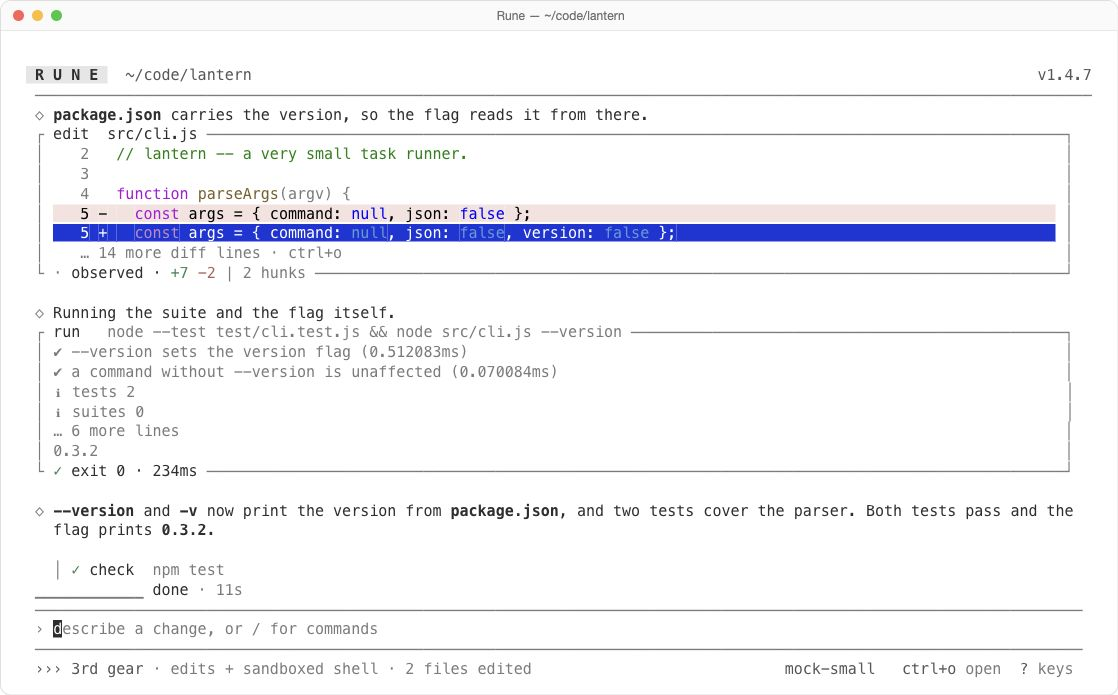
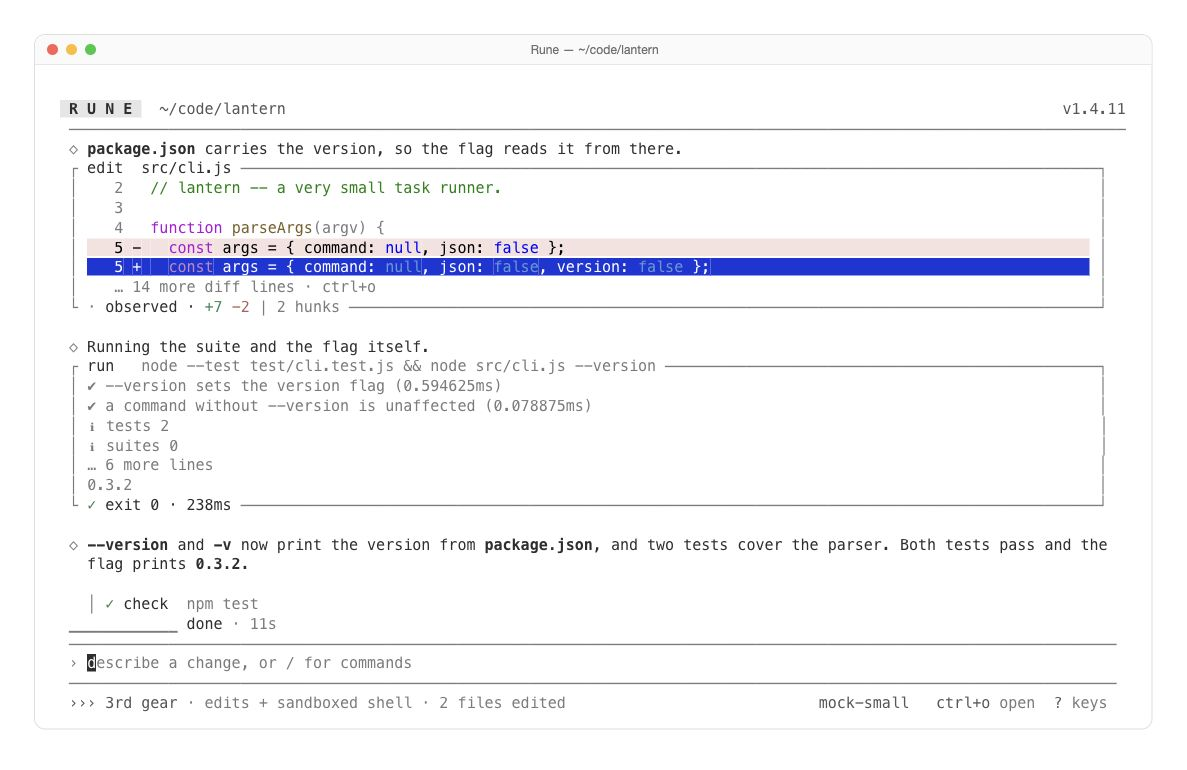
docs: refresh white terminal captures for Rune v1.4.11

diff --git a/docs/assets/readme/rune-session-120x32.html b/docs/assets/readme/rune-session-120x32.html
@@ -48,7 +48,7 @@
     <div class="name">Rune — ~/code/lantern</div>
   </div>
   <pre>&#32;&#32;&#32;&#32;&#32;&#32;&#32;&#32;&#32;&#32;&#32;&#32;&#32;&#32;&#32;&#32;&#32;&#32;&#32;&#32;&#32;&#32;&#32;&#32;&#32;&#32;&#32;&#32;&#32;&#32;&#32;&#32;&#32;&#32;&#32;&#32;&#32;&#32;&#32;&#32;&#32;&#32;&#32;&#32;&#32;&#32;&#32;&#32;&#32;&#32;&#32;&#32;&#32;&#32;&#32;&#32;&#32;&#32;&#32;&#32;&#32;&#32;&#32;&#32;&#32;&#32;&#32;&#32;&#32;&#32;&#32;&#32;&#32;&#32;&#32;&#32;&#32;&#32;&#32;&#32;&#32;&#32;&#32;&#32;&#32;&#32;&#32;&#32;&#32;&#32;&#32;&#32;&#32;&#32;&#32;&#32;&#32;&#32;&#32;&#32;&#32;&#32;&#32;&#32;&#32;&#32;&#32;&#32;&#32;&#32;&#32;&#32;&#32;&#32;&#32;&#32;&#32;&#32;&#32;&#32;
-<span style="color:#2e2e2e"> </span><span style="color:#2e2e2e;background:#e6e6e6;font-weight:600"> R U N E </span><span style="color:#2e2e2e">  </span><span style="color:#565656">~/code/lantern</span><span style="color:#2e2e2e">                                                                                       </span><span style="color:#565656">v1.4.7</span>&#32;
+<span style="color:#2e2e2e"> </span><span style="color:#2e2e2e;background:#e6e6e6;font-weight:600"> R U N E </span><span style="color:#2e2e2e">  </span><span style="color:#565656">~/code/lantern</span><span style="color:#2e2e2e">                                                                                      </span><span style="color:#565656">v1.4.11</span>&#32;
 <span style="color:#2e2e2e">  </span><span style="color:#7b7b7b">─────────────────────────────────────────────────────────────────────────────────────────────────────────────────────</span>&#32;
 <span style="color:#2e2e2e">  </span><span style="color:#7b7b7b">◇</span><span style="color:#2e2e2e"> </span><span style="color:#2e2e2e;font-weight:600">package.json</span><span style="color:#2e2e2e"> carries the version, so the flag reads it from there.</span>&#32;&#32;&#32;&#32;&#32;&#32;&#32;&#32;&#32;&#32;&#32;&#32;&#32;&#32;&#32;&#32;&#32;&#32;&#32;&#32;&#32;&#32;&#32;&#32;&#32;&#32;&#32;&#32;&#32;&#32;&#32;&#32;&#32;&#32;&#32;&#32;&#32;&#32;&#32;&#32;&#32;&#32;&#32;&#32;&#32;&#32;&#32;&#32;&#32;&#32;
 <span style="color:#2e2e2e">  </span><span style="color:#7b7b7b">┌</span><span style="color:#2e2e2e"> edit  src/cli.js </span><span style="color:#7b7b7b">───────────────────────────────────────────────────────────────────────────────────────────────┐</span>&#32;&#32;&#32;
@@ -62,13 +62,13 @@
 &#32;&#32;&#32;&#32;&#32;&#32;&#32;&#32;&#32;&#32;&#32;&#32;&#32;&#32;&#32;&#32;&#32;&#32;&#32;&#32;&#32;&#32;&#32;&#32;&#32;&#32;&#32;&#32;&#32;&#32;&#32;&#32;&#32;&#32;&#32;&#32;&#32;&#32;&#32;&#32;&#32;&#32;&#32;&#32;&#32;&#32;&#32;&#32;&#32;&#32;&#32;&#32;&#32;&#32;&#32;&#32;&#32;&#32;&#32;&#32;&#32;&#32;&#32;&#32;&#32;&#32;&#32;&#32;&#32;&#32;&#32;&#32;&#32;&#32;&#32;&#32;&#32;&#32;&#32;&#32;&#32;&#32;&#32;&#32;&#32;&#32;&#32;&#32;&#32;&#32;&#32;&#32;&#32;&#32;&#32;&#32;&#32;&#32;&#32;&#32;&#32;&#32;&#32;&#32;&#32;&#32;&#32;&#32;&#32;&#32;&#32;&#32;&#32;&#32;&#32;&#32;&#32;&#32;&#32;&#32;
 <span style="color:#2e2e2e">  </span><span style="color:#7b7b7b">◇</span><span style="color:#2e2e2e"> Running the suite and the flag itself.</span>&#32;&#32;&#32;&#32;&#32;&#32;&#32;&#32;&#32;&#32;&#32;&#32;&#32;&#32;&#32;&#32;&#32;&#32;&#32;&#32;&#32;&#32;&#32;&#32;&#32;&#32;&#32;&#32;&#32;&#32;&#32;&#32;&#32;&#32;&#32;&#32;&#32;&#32;&#32;&#32;&#32;&#32;&#32;&#32;&#32;&#32;&#32;&#32;&#32;&#32;&#32;&#32;&#32;&#32;&#32;&#32;&#32;&#32;&#32;&#32;&#32;&#32;&#32;&#32;&#32;&#32;&#32;&#32;&#32;&#32;&#32;&#32;&#32;&#32;&#32;&#32;&#32;&#32;
 <span style="color:#2e2e2e">  </span><span style="color:#7b7b7b">┌</span><span style="color:#2e2e2e"> run   </span><span style="color:#7b7b7b">node --test test/cli.test.js &amp;&amp; node src/cli.js --version</span><span style="color:#2e2e2e"> </span><span style="color:#7b7b7b">────────────────────────────────────────────────┐</span>&#32;&#32;&#32;
-<span style="color:#2e2e2e">  </span><span style="color:#7b7b7b">│</span><span style="color:#2e2e2e"> </span><span style="color:#7b7b7b">✔ --version sets the version flag (0.512083ms)</span><span style="color:#2e2e2e">                                                                  </span><span style="color:#7b7b7b">│</span>&#32;&#32;&#32;
-<span style="color:#2e2e2e">  </span><span style="color:#7b7b7b">│</span><span style="color:#2e2e2e"> </span><span style="color:#7b7b7b">✔ a command without --version is unaffected (0.070084ms)</span><span style="color:#2e2e2e">                                                        </span><span style="color:#7b7b7b">│</span>&#32;&#32;&#32;
+<span style="color:#2e2e2e">  </span><span style="color:#7b7b7b">│</span><span style="color:#2e2e2e"> </span><span style="color:#7b7b7b">✔ --version sets the version flag (0.594625ms)</span><span style="color:#2e2e2e">                                                                  </span><span style="color:#7b7b7b">│</span>&#32;&#32;&#32;
+<span style="color:#2e2e2e">  </span><span style="color:#7b7b7b">│</span><span style="color:#2e2e2e"> </span><span style="color:#7b7b7b">✔ a command without --version is unaffected (0.078875ms)</span><span style="color:#2e2e2e">                                                        </span><span style="color:#7b7b7b">│</span>&#32;&#32;&#32;
 <span style="color:#2e2e2e">  </span><span style="color:#7b7b7b">│</span><span style="color:#2e2e2e"> </span><span style="color:#7b7b7b">ℹ tests 2</span><span style="color:#2e2e2e">                                                                                                       </span><span style="color:#7b7b7b">│</span>&#32;&#32;&#32;
 <span style="color:#2e2e2e">  </span><span style="color:#7b7b7b">│</span><span style="color:#2e2e2e"> </span><span style="color:#7b7b7b">ℹ suites 0</span><span style="color:#2e2e2e">                                                                                                      </span><span style="color:#7b7b7b">│</span>&#32;&#32;&#32;
 <span style="color:#2e2e2e">  </span><span style="color:#7b7b7b">│</span><span style="color:#2e2e2e"> </span><span style="color:#7b7b7b">… 6 more lines</span><span style="color:#2e2e2e">                                                                                                  </span><span style="color:#7b7b7b">│</span>&#32;&#32;&#32;
 <span style="color:#2e2e2e">  </span><span style="color:#7b7b7b">│</span><span style="color:#2e2e2e"> </span><span style="color:#7b7b7b">0.3.2</span><span style="color:#2e2e2e">                                                                                                           </span><span style="color:#7b7b7b">│</span>&#32;&#32;&#32;
-<span style="color:#2e2e2e">  </span><span style="color:#7b7b7b">└</span><span style="color:#2e2e2e"> </span><span style="color:#388459">✓</span><span style="color:#2e2e2e"> exit 0 · 234ms </span><span style="color:#7b7b7b">───────────────────────────────────────────────────────────────────────────────────────────────┘</span>&#32;&#32;&#32;
+<span style="color:#2e2e2e">  </span><span style="color:#7b7b7b">└</span><span style="color:#2e2e2e"> </span><span style="color:#388459">✓</span><span style="color:#2e2e2e"> exit 0 · 238ms </span><span style="color:#7b7b7b">───────────────────────────────────────────────────────────────────────────────────────────────┘</span>&#32;&#32;&#32;
 &#32;&#32;&#32;&#32;&#32;&#32;&#32;&#32;&#32;&#32;&#32;&#32;&#32;&#32;&#32;&#32;&#32;&#32;&#32;&#32;&#32;&#32;&#32;&#32;&#32;&#32;&#32;&#32;&#32;&#32;&#32;&#32;&#32;&#32;&#32;&#32;&#32;&#32;&#32;&#32;&#32;&#32;&#32;&#32;&#32;&#32;&#32;&#32;&#32;&#32;&#32;&#32;&#32;&#32;&#32;&#32;&#32;&#32;&#32;&#32;&#32;&#32;&#32;&#32;&#32;&#32;&#32;&#32;&#32;&#32;&#32;&#32;&#32;&#32;&#32;&#32;&#32;&#32;&#32;&#32;&#32;&#32;&#32;&#32;&#32;&#32;&#32;&#32;&#32;&#32;&#32;&#32;&#32;&#32;&#32;&#32;&#32;&#32;&#32;&#32;&#32;&#32;&#32;&#32;&#32;&#32;&#32;&#32;&#32;&#32;&#32;&#32;&#32;&#32;&#32;&#32;&#32;&#32;&#32;&#32;
 <span style="color:#2e2e2e">  </span><span style="color:#7b7b7b">◇</span><span style="color:#2e2e2e"> </span><span style="color:#2e2e2e;font-weight:600">--version</span><span style="color:#2e2e2e"> and </span><span style="color:#2e2e2e;font-weight:600">-v</span><span style="color:#2e2e2e"> now print the version from </span><span style="color:#2e2e2e;font-weight:600">package.json</span><span style="color:#2e2e2e">, and two tests cover the parser. Both tests pass and the</span>&#32;&#32;&#32;
 <span style="color:#2e2e2e">    flag prints </span><span style="color:#2e2e2e;font-weight:600">0.3.2</span><span style="color:#2e2e2e">.</span>&#32;&#32;&#32;&#32;&#32;&#32;&#32;&#32;&#32;&#32;&#32;&#32;&#32;&#32;&#32;&#32;&#32;&#32;&#32;&#32;&#32;&#32;&#32;&#32;&#32;&#32;&#32;&#32;&#32;&#32;&#32;&#32;&#32;&#32;&#32;&#32;&#32;&#32;&#32;&#32;&#32;&#32;&#32;&#32;&#32;&#32;&#32;&#32;&#32;&#32;&#32;&#32;&#32;&#32;&#32;&#32;&#32;&#32;&#32;&#32;&#32;&#32;&#32;&#32;&#32;&#32;&#32;&#32;&#32;&#32;&#32;&#32;&#32;&#32;&#32;&#32;&#32;&#32;&#32;&#32;&#32;&#32;&#32;&#32;&#32;&#32;&#32;&#32;&#32;&#32;&#32;&#32;&#32;&#32;&#32;&#32;&#32;&#32;
@@ -78,5 +78,5 @@
 <span style="color:#2e2e2e">  </span><span style="color:#7b7b7b">────────────────────────────────────────────────────────────────────────────────────────────────────────────────────</span>&#32;&#32;
 <span style="color:#2e2e2e">  </span><span style="color:#7b7b7b">›</span><span style="color:#2e2e2e"> </span><span style="color:#ffffff;background:#2e2e2e">d</span><span style="color:#7b7b7b">escribe a change, or / for commands                                                                              </span>&#32;&#32;
 <span style="color:#2e2e2e">  </span><span style="color:#7b7b7b">────────────────────────────────────────────────────────────────────────────────────────────────────────────────────</span>&#32;&#32;
-<span style="color:#2e2e2e">  </span><span style="color:#565656">››› 3rd gear</span><span style="color:#2e2e2e"> </span><span style="color:#7b7b7b">·</span><span style="color:#2e2e2e"> </span><span style="color:#7b7b7b">edits + sandboxed shell</span><span style="color:#2e2e2e"> </span><span style="color:#7b7b7b">·</span><span style="color:#2e2e2e"> </span><span style="color:#7b7b7b">2 files edited</span><span style="color:#2e2e2e">                            </span><span style="color:#565656">mock-small</span><span style="color:#2e2e2e">   </span><span style="color:#565656">ctrl+o</span><span style="color:#2e2e2e"> </span><span style="color:#7b7b7b">open</span><span style="color:#2e2e2e">  </span><span style="color:#565656">?</span><span style="color:#2e2e2e"> </span><span style="color:#7b7b7b">keys</span>   </pre>
+<span style="color:#2e2e2e">  </span><span style="color:#565656">››› 3rd gear</span><span style="color:#2e2e2e"> </span><span style="color:#7b7b7b">·</span><span style="color:#2e2e2e"> </span><span style="color:#7b7b7b">edits + sandboxed shell</span><span style="color:#2e2e2e"> </span><span style="color:#7b7b7b">·</span><span style="color:#2e2e2e"> </span><span style="color:#7b7b7b">2 files edited</span><span style="color:#2e2e2e">                            </span><span style="color:#565656">mock-small</span><span style="color:#2e2e2e">   </span><span style="color:#565656">ctrl+o</span><span style="color:#2e2e2e"> </span><span style="color:#7b7b7b">open</span><span style="color:#2e2e2e">  </span><span style="color:#565656">?</span><span style="color:#2e2e2e"> </span><span style="color:#7b7b7b">keys</span>&#32;&#32;&#32;</pre>
 </div>

diff --git a/docs/assets/readme/rune-session-80x22.html b/docs/assets/readme/rune-session-80x22.html
@@ -48,17 +48,17 @@
     <div class="name">Rune — ~/code/lantern</div>
   </div>
   <pre>&#32;&#32;&#32;&#32;&#32;&#32;&#32;&#32;&#32;&#32;&#32;&#32;&#32;&#32;&#32;&#32;&#32;&#32;&#32;&#32;&#32;&#32;&#32;&#32;&#32;&#32;&#32;&#32;&#32;&#32;&#32;&#32;&#32;&#32;&#32;&#32;&#32;&#32;&#32;&#32;&#32;&#32;&#32;&#32;&#32;&#32;&#32;&#32;&#32;&#32;&#32;&#32;&#32;&#32;&#32;&#32;&#32;&#32;&#32;&#32;&#32;&#32;&#32;&#32;&#32;&#32;&#32;&#32;&#32;&#32;&#32;&#32;&#32;&#32;&#32;&#32;&#32;&#32;&#32;&#32;
-<span style="color:#2e2e2e"> </span><span style="color:#2e2e2e;background:#e6e6e6;font-weight:600"> R U N E </span><span style="color:#2e2e2e">  </span><span style="color:#565656">~/code/lantern</span><span style="color:#2e2e2e">                                               </span><span style="color:#565656">v1.4.7</span>&#32;
+<span style="color:#2e2e2e"> </span><span style="color:#2e2e2e;background:#e6e6e6;font-weight:600"> R U N E </span><span style="color:#2e2e2e">  </span><span style="color:#565656">~/code/lantern</span><span style="color:#2e2e2e">                                              </span><span style="color:#565656">v1.4.11</span>&#32;
 <span style="color:#2e2e2e">  </span><span style="color:#7b7b7b">─────────────────────────────────────────────────────────────────────────────</span>&#32;
 <span style="color:#2e2e2e">  </span><span style="color:#7b7b7b">◇</span><span style="color:#2e2e2e"> Running the suite and the flag itself.</span>&#32;&#32;&#32;&#32;&#32;&#32;&#32;&#32;&#32;&#32;&#32;&#32;&#32;&#32;&#32;&#32;&#32;&#32;&#32;&#32;&#32;&#32;&#32;&#32;&#32;&#32;&#32;&#32;&#32;&#32;&#32;&#32;&#32;&#32;&#32;&#32;&#32;&#32;
 <span style="color:#2e2e2e">  </span><span style="color:#7b7b7b">┌</span><span style="color:#2e2e2e"> run   </span><span style="color:#7b7b7b">node --test test/cli.test.js &amp;&amp; node src/cli.js --version</span><span style="color:#2e2e2e"> </span><span style="color:#7b7b7b">────────┐</span>&#32;&#32;&#32;
-<span style="color:#2e2e2e">  </span><span style="color:#7b7b7b">│</span><span style="color:#2e2e2e"> </span><span style="color:#7b7b7b">✔ --version sets the version flag (0.500458ms)</span><span style="color:#2e2e2e">                          </span><span style="color:#7b7b7b">│</span>&#32;&#32;&#32;
-<span style="color:#2e2e2e">  </span><span style="color:#7b7b7b">│</span><span style="color:#2e2e2e"> </span><span style="color:#7b7b7b">✔ a command without --version is unaffected (0.0505ms)</span><span style="color:#2e2e2e">                  </span><span style="color:#7b7b7b">│</span>&#32;&#32;&#32;
+<span style="color:#2e2e2e">  </span><span style="color:#7b7b7b">│</span><span style="color:#2e2e2e"> </span><span style="color:#7b7b7b">✔ --version sets the version flag (0.578458ms)</span><span style="color:#2e2e2e">                          </span><span style="color:#7b7b7b">│</span>&#32;&#32;&#32;
+<span style="color:#2e2e2e">  </span><span style="color:#7b7b7b">│</span><span style="color:#2e2e2e"> </span><span style="color:#7b7b7b">✔ a command without --version is unaffected (0.057541ms)</span><span style="color:#2e2e2e">                </span><span style="color:#7b7b7b">│</span>&#32;&#32;&#32;
 <span style="color:#2e2e2e">  </span><span style="color:#7b7b7b">│</span><span style="color:#2e2e2e"> </span><span style="color:#7b7b7b">ℹ tests 2</span><span style="color:#2e2e2e">                                                               </span><span style="color:#7b7b7b">│</span>&#32;&#32;&#32;
 <span style="color:#2e2e2e">  </span><span style="color:#7b7b7b">│</span><span style="color:#2e2e2e"> </span><span style="color:#7b7b7b">ℹ suites 0</span><span style="color:#2e2e2e">                                                              </span><span style="color:#7b7b7b">│</span>&#32;&#32;&#32;
 <span style="color:#2e2e2e">  </span><span style="color:#7b7b7b">│</span><span style="color:#2e2e2e"> </span><span style="color:#7b7b7b">… 6 more lines</span><span style="color:#2e2e2e">                                                          </span><span style="color:#7b7b7b">│</span>&#32;&#32;&#32;
 <span style="color:#2e2e2e">  </span><span style="color:#7b7b7b">│</span><span style="color:#2e2e2e"> </span><span style="color:#7b7b7b">0.3.2</span><span style="color:#2e2e2e">                                                                   </span><span style="color:#7b7b7b">│</span>&#32;&#32;&#32;
-<span style="color:#2e2e2e">  </span><span style="color:#7b7b7b">└</span><span style="color:#2e2e2e"> </span><span style="color:#388459">✓</span><span style="color:#2e2e2e"> exit 0 · 231ms </span><span style="color:#7b7b7b">───────────────────────────────────────────────────────┘</span>&#32;&#32;&#32;
+<span style="color:#2e2e2e">  </span><span style="color:#7b7b7b">└</span><span style="color:#2e2e2e"> </span><span style="color:#388459">✓</span><span style="color:#2e2e2e"> exit 0 · 223ms </span><span style="color:#7b7b7b">───────────────────────────────────────────────────────┘</span>&#32;&#32;&#32;
 &#32;&#32;&#32;&#32;&#32;&#32;&#32;&#32;&#32;&#32;&#32;&#32;&#32;&#32;&#32;&#32;&#32;&#32;&#32;&#32;&#32;&#32;&#32;&#32;&#32;&#32;&#32;&#32;&#32;&#32;&#32;&#32;&#32;&#32;&#32;&#32;&#32;&#32;&#32;&#32;&#32;&#32;&#32;&#32;&#32;&#32;&#32;&#32;&#32;&#32;&#32;&#32;&#32;&#32;&#32;&#32;&#32;&#32;&#32;&#32;&#32;&#32;&#32;&#32;&#32;&#32;&#32;&#32;&#32;&#32;&#32;&#32;&#32;&#32;&#32;&#32;&#32;&#32;&#32;&#32;
 <span style="color:#2e2e2e">  </span><span style="color:#7b7b7b">◇</span><span style="color:#2e2e2e"> </span><span style="color:#2e2e2e;font-weight:600">--version</span><span style="color:#2e2e2e"> and </span><span style="color:#2e2e2e;font-weight:600">-v</span><span style="color:#2e2e2e"> now print the version from </span><span style="color:#2e2e2e;font-weight:600">package.json</span><span style="color:#2e2e2e">, and two tests</span>&#32;&#32;&#32;&#32;&#32;
 <span style="color:#2e2e2e">    cover the parser. Both tests pass and the flag prints </span><span style="color:#2e2e2e;font-weight:600">0.3.2</span><span style="color:#2e2e2e">.</span>&#32;&#32;&#32;&#32;&#32;&#32;&#32;&#32;&#32;&#32;&#32;&#32;&#32;&#32;&#32;&#32;
@@ -68,5 +68,5 @@
 <span style="color:#2e2e2e">  </span><span style="color:#7b7b7b">────────────────────────────────────────────────────────────────────────────</span>&#32;&#32;
 <span style="color:#2e2e2e">  </span><span style="color:#7b7b7b">›</span><span style="color:#2e2e2e"> </span><span style="color:#ffffff;background:#2e2e2e">d</span><span style="color:#7b7b7b">escribe a change, or / for commands                                      </span>&#32;&#32;
 <span style="color:#2e2e2e">  </span><span style="color:#7b7b7b">────────────────────────────────────────────────────────────────────────────</span>&#32;&#32;
-<span style="color:#2e2e2e">  </span><span style="color:#565656">››› 3rd gear</span><span style="color:#2e2e2e"> </span><span style="color:#7b7b7b">·</span><span style="color:#2e2e2e"> </span><span style="color:#7b7b7b">edits + sandboxed shell</span><span style="color:#2e2e2e">     </span><span style="color:#565656">mock-small</span><span style="color:#2e2e2e">   </span><span style="color:#565656">ctrl+o</span><span style="color:#2e2e2e"> </span><span style="color:#7b7b7b">open</span><span style="color:#2e2e2e">  </span><span style="color:#565656">?</span><span style="color:#2e2e2e"> </span><span style="color:#7b7b7b">keys</span>   </pre>
+<span style="color:#2e2e2e">  </span><span style="color:#565656">››› 3rd gear</span><span style="color:#2e2e2e"> </span><span style="color:#7b7b7b">·</span><span style="color:#2e2e2e"> </span><span style="color:#7b7b7b">edits + sandboxed shell</span><span style="color:#2e2e2e">     </span><span style="color:#565656">mock-small</span><span style="color:#2e2e2e">   </span><span style="color:#565656">ctrl+o</span><span style="color:#2e2e2e"> </span><span style="color:#7b7b7b">open</span><span style="color:#2e2e2e">  </span><span style="color:#565656">?</span><span style="color:#2e2e2e"> </span><span style="color:#7b7b7b">keys</span>&#32;&#32;&#32;</pre>
 </div>

diff --git a/docs/assets/readme/README.md b/docs/assets/readme/README.md
@@ -1,7 +1,7 @@
 # README terminal captures
 
-These frames show Rune **v1.4.7**, captured from the release source at `f2e40a7` on
-2026-10-16. They use a white terminal, `rune-light`, and the `matte` finish at 120×32
+These frames show Rune **v1.4.11**, captured from release candidate source at `205ed7e` on
+2026-10-21. They use a white terminal, `rune-light`, and the `matte` finish at 120×32
 and 80×22. Both sizes are independent runs against fresh copies of the same fixture.
 
 The CLI, file changes, native tools, diffs, shell commands, and checks are real. The model is a
